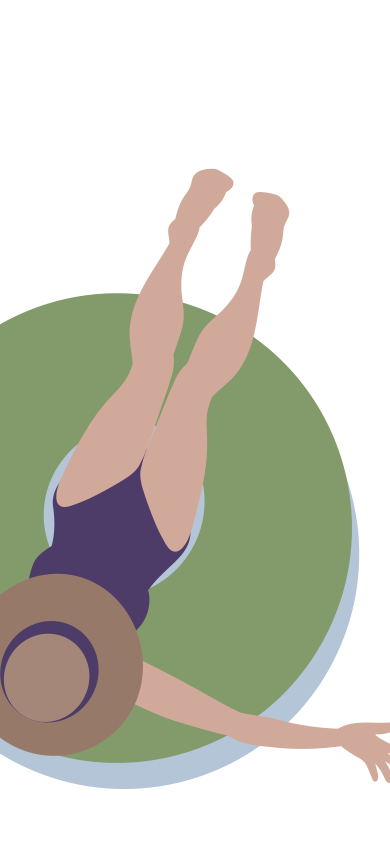
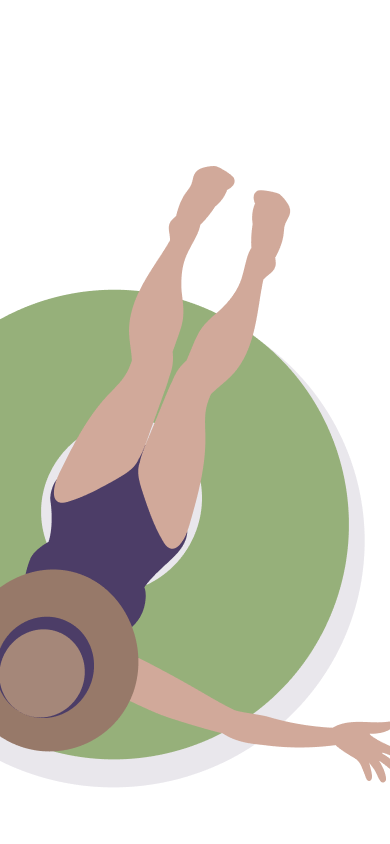
backgrounds and images

diff --git a/style.css b/style.css
@@ -1,59 +1,114 @@
 * {
-box-sizing: border-box;
-margin: 0;
-padding: 0;
+  box-sizing: border-box;
+  margin: 0;
+  padding: 0;
 }
 
 body {
-background-color: #f0f0f0;
-display: flex;
-justify-content: center;
-align-items: center;
-height: 100vh;
+  background-color: #f0f0f0;
+  display: flex;
+  justify-content: center;
+  align-items: center;
+  height: 100vh;
 }
 
 .frame {
-width: 390px;
-height: 844px;
-position: relative;
-overflow: hidden;
-font-family: 'Roboto', sans-serif;
+  width: 390px;
+  height: 844px;
+  position: relative;
+  overflow: hidden;
+  font-family: 'Roboto', sans-serif;
 }
 
 .background {
-position: absolute;
-top: 0;
-left: 0;
-width: 100%;
-height: 100%;
-z-index: 0;
+  position: absolute;
+  top: 0;
+  left: 0;
+  width: 100%;
+  height: 100%;
+  z-index: 0;
+  display: flex;
+  flex-direction: column;
 }
 
-.top-block {
-height: 220px;
-background-color: #F6F1E8;
-display: flex;
-justify-content: center;
-align-items: center;
-}
-
+.top-block,
 .bottom-block {
-height: calc(100% - 220px);
-background-color: #C2D8E6;
+  width: 100%;
+}
+
+.style-1 .top-block {
+  height: 220px;
+  background-color: #F2F1ED;
+}
+.style-1 .bottom-block {
+  height: 624px;
+  background-color: #C2D8E6;
+}
+
+.style-2 .top-block {
+  height: 370px;
+  background-color: #C2D8E6;
+}
+.style-2 .bottom-block {
+  height: 474px;
+  background-color: #F2F1ED;
+}
+
+.style-3 .top-block {
+  height: 624px;
+  background-color: #F2F1ED;
+  
+}
+.style-3 .bottom-block {
+  height: 220px;
+  background-color: #9FB992;
+}
+
+.style-4 .top-block {
+  height: 624px;
+  background-color: #F2F1ED;
+}
+.style-4 .bottom-block {
+  height: 220px;
+  background-color: #C2D8E6;
+}
+
+.style-5 .top-block {
+  height: 260px;
+  background-color: #C2D8E6;
+}
+.style-5 .bottom-block {
+  height: 584px;
+  background-color: #F2F1ED;
+}
+
+.style-6 .top-block {
+  height: 624px;
+  background-color: #EAE0D0;
+}
+.style-6 .bottom-block {
+  height: 220px;
+  background-color: #F2F1ED;
 }
 
 .logo {
-width: 258px;
-height: 46px;
-object-fit: contain;
+  width: 258px;
+  height: 46px;
+  object-fit: contain;
 }
 
 .illustration {
-position: absolute;
-top: 0;
-left: 0;
-width: 100%;
-height: 100%;
-object-fit: cover;
-z-index: 1;
+  position: absolute;
+  top: 0;
+  left: 0;
+  width: 100%;
+  height: 100%;
+  object-fit: cover;
+  z-index: 1;
+}
+
+.style-1 .top-block {
+  display: flex;
+  justify-content: center;
+  align-items: center;
 }

diff --git a/onboarding-2.html b/onboarding-2.html
@@ -9,13 +9,11 @@
 </head>
 <body>
   <div class="frame">
-    <div class="background style-1">
-      <div class="top-block">
-        <img src="assets/logo.png" alt="Reclaim logo" class="logo" />
-      </div>
+    <div class="background style-3">
+      <div class="top-block"></div>
       <div class="bottom-block"></div>
     </div>
-    <img src="assets/woman-floating-in-pool.png" alt="" class="illustration" />
+    <img src="assets/woman-floating-in-pool-2.png" alt="" class="illustration" />
   </div>
 </body>
 </html>

diff --git a/onboarding-1.html b/onboarding-1.html
@@ -9,13 +9,11 @@
 </head>
 <body>
   <div class="frame">
-    <div class="background style-1">
-      <div class="top-block">
-        <img src="assets/logo.png" alt="Reclaim logo" class="logo" />
-      </div>
+    <div class="background style-3">
+      <div class="top-block"></div>
       <div class="bottom-block"></div>
     </div>
-    <img src="assets/woman-floating-in-pool.png" alt="" class="illustration" />
+    <img src="assets/couple-reading-books.png" alt="" class="illustration" />
   </div>
 </body>
 </html>

diff --git a/log-in-create-account.html b/log-in-create-account.html
@@ -9,13 +9,11 @@
 </head>
 <body>
   <div class="frame">
-    <div class="background style-1">
-      <div class="top-block">
-        <img src="assets/logo.png" alt="Reclaim logo" class="logo" />
-      </div>
+    <div class="background style-2">
+      <div class="top-block"></div>
       <div class="bottom-block"></div>
     </div>
-    <img src="assets/woman-floating-in-pool.png" alt="" class="illustration" />
+    <img src="assets/man-reading-book-2.png" alt="" class="illustration" />
   </div>
 </body>
 </html>

diff --git a/onboarding-5.html b/onboarding-5.html
@@ -9,13 +9,11 @@
 </head>
 <body>
   <div class="frame">
-    <div class="background style-1">
-      <div class="top-block">
-        <img src="assets/logo.png" alt="Reclaim logo" class="logo" />
-      </div>
+    <div class="background style-3">
+      <div class="top-block"></div>
       <div class="bottom-block"></div>
     </div>
-    <img src="assets/woman-floating-in-pool.png" alt="" class="illustration" />
+    <img src="assets/woman-reading-book.png" alt="" class="illustration" />
   </div>
 </body>
 </html>

diff --git a/onboarding-3.html b/onboarding-3.html
@@ -9,13 +9,11 @@
 </head>
 <body>
   <div class="frame">
-    <div class="background style-1">
-      <div class="top-block">
-        <img src="assets/logo.png" alt="Reclaim logo" class="logo" />
-      </div>
+    <div class="background style-3">
+      <div class="top-block"></div>
       <div class="bottom-block"></div>
     </div>
-    <img src="assets/woman-floating-in-pool.png" alt="" class="illustration" />
+    <img src="assets/woman-doing-yoga.png" alt="" class="illustration" />
   </div>
 </body>
 </html>

diff --git a/selected-rest-goal.html b/selected-rest-goal.html
@@ -9,13 +9,11 @@
 </head>
 <body>
   <div class="frame">
-    <div class="background style-1">
-      <div class="top-block">
-        <img src="assets/logo.png" alt="Reclaim logo" class="logo" />
-      </div>
+    <div class="background style-6">
+      <div class="top-block"></div>
       <div class="bottom-block"></div>
     </div>
-    <img src="assets/woman-floating-in-pool.png" alt="" class="illustration" />
+    <img src="assets/man-reading-book.png" alt="" class="illustration" />
   </div>
 </body>
 </html>

diff --git a/onboarding-4.html b/onboarding-4.html
@@ -9,13 +9,11 @@
 </head>
 <body>
   <div class="frame">
-    <div class="background style-1">
-      <div class="top-block">
-        <img src="assets/logo.png" alt="Reclaim logo" class="logo" />
-      </div>
+    <div class="background style-4">
+      <div class="top-block"></div>
       <div class="bottom-block"></div>
     </div>
-    <img src="assets/woman-floating-in-pool.png" alt="" class="illustration" />
+    <img src="assets/plant-and-book.png" alt="" class="illustration" />
   </div>
 </body>
 </html>

diff --git a/homepage.html b/homepage.html
@@ -9,13 +9,10 @@
 </head>
 <body>
   <div class="frame">
-    <div class="background style-1">
-      <div class="top-block">
-        <img src="assets/logo.png" alt="Reclaim logo" class="logo" />
-      </div>
+    <div class="background style-5">
+      <div class="top-block"></div>
       <div class="bottom-block"></div>
     </div>
-    <img src="assets/woman-floating-in-pool.png" alt="" class="illustration" />
   </div>
 </body>
 </html>

diff --git a/resting.html b/resting.html
@@ -9,13 +9,10 @@
 </head>
 <body>
   <div class="frame">
-    <div class="background style-1">
-      <div class="top-block">
-        <img src="assets/logo.png" alt="Reclaim logo" class="logo" />
-      </div>
+    <div class="background style-6">
+      <div class="top-block"></div>
       <div class="bottom-block"></div>
     </div>
-    <img src="assets/woman-floating-in-pool.png" alt="" class="illustration" />
   </div>
 </body>
 </html>

diff --git a/splash-screen.html b/splash-screen.html
@@ -9,13 +9,10 @@
 </head>
 <body>
   <div class="frame">
-    <div class="background style-1">
-      <div class="top-block">
-        <img src="assets/logo.png" alt="Reclaim logo" class="logo" />
-      </div>
+    <div class="background style-4">
+      <div class="top-block"></div>
       <div class="bottom-block"></div>
     </div>
-    <img src="assets/woman-floating-in-pool.png" alt="" class="illustration" />
   </div>
 </body>
 </html>
